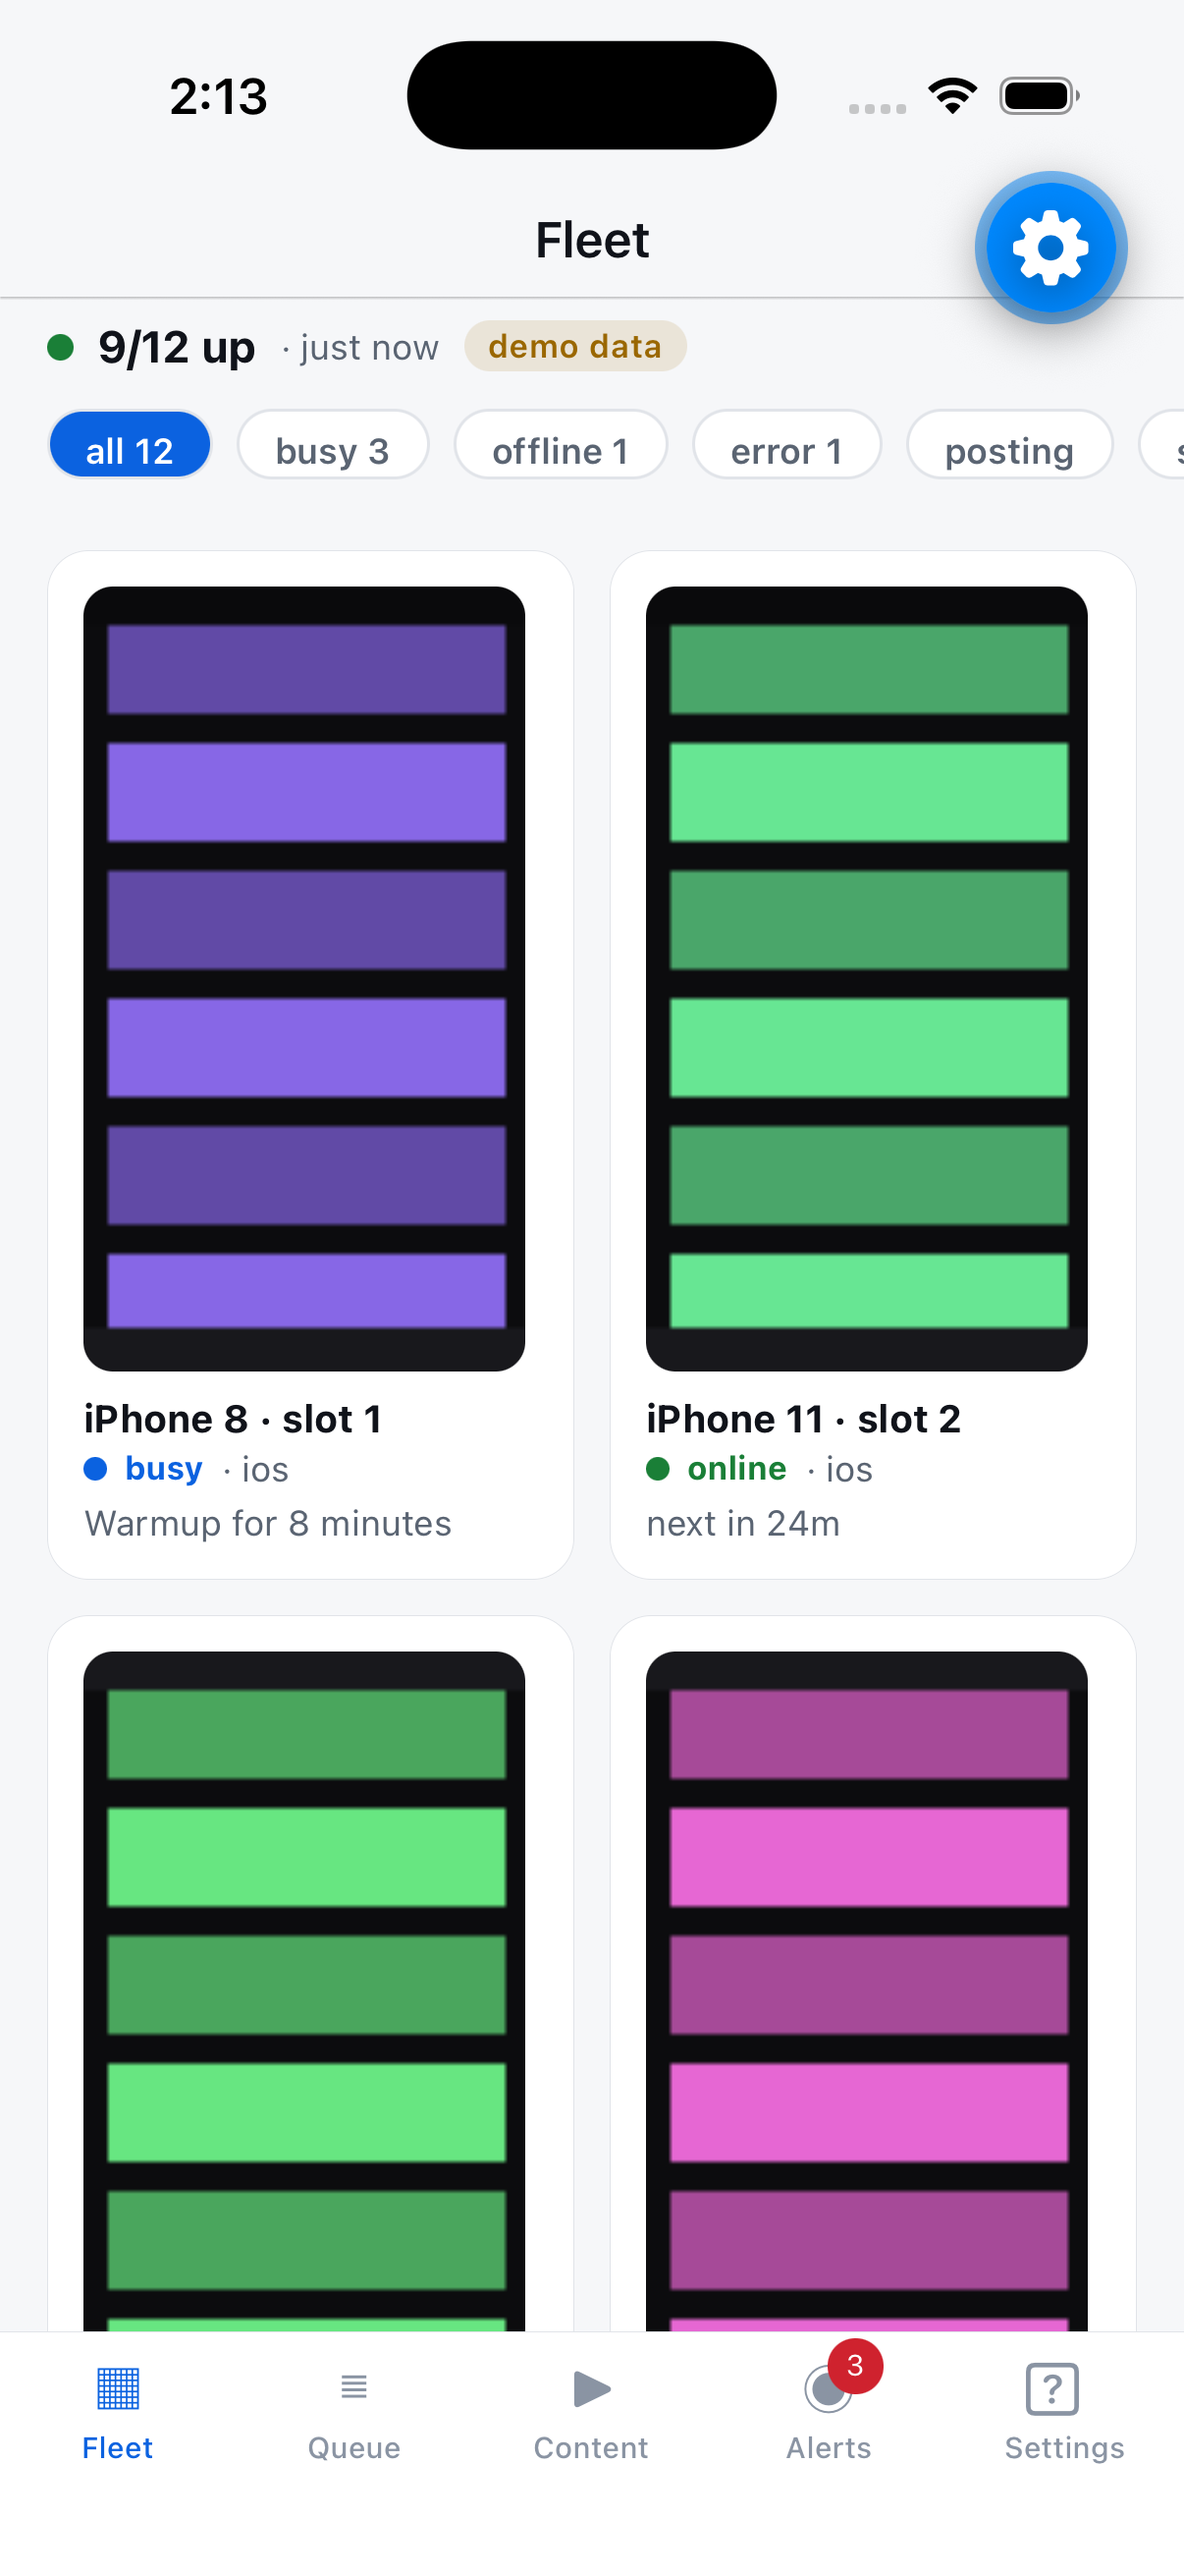
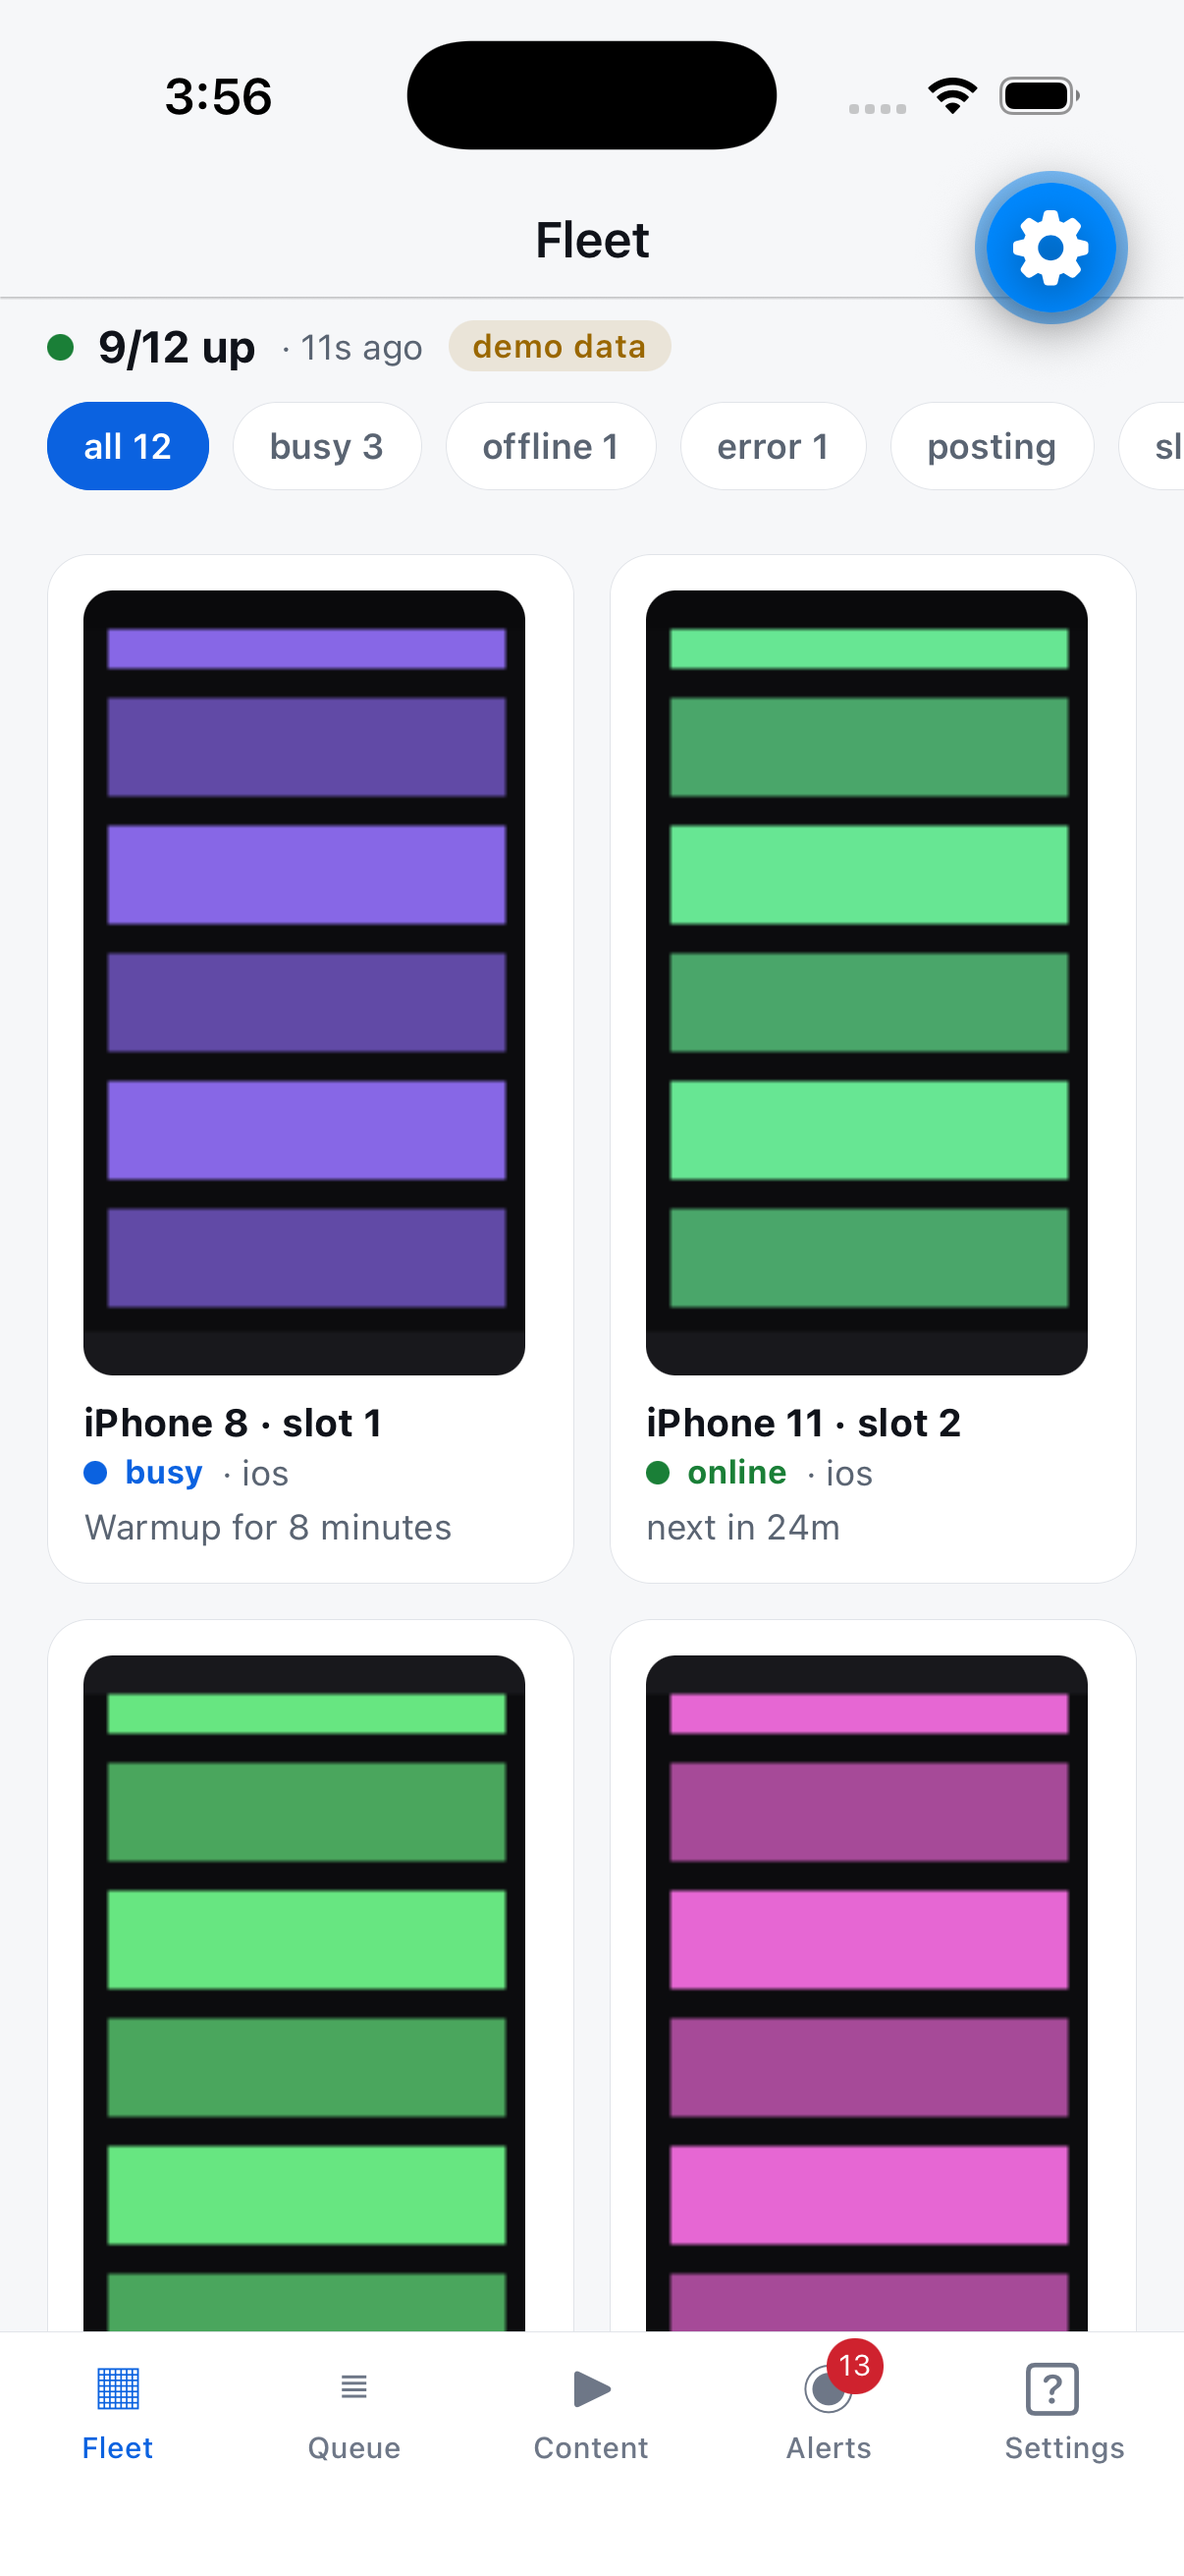
mobile: fix the clipped filter row, three failing contrast ratios and two copy bugs
Found by running the app in the simulator in demo mode, light and dark.

- The shared `Chip` clipped its own descenders: the horizontal
  `flexGrow: 0` row measured shorter than the pill. Fixed height, and
  the row centres its children.

- Three palette colours failed WCAG AA against the surface they sit on,
  all of them on 11 px text that is the only thing saying what happened:
  `disabled` at 1.9:1 light / 2.2:1 dark (the `cancelled` and
  `completed` badges were nearly invisible), and `textFaint` / `offline`
  at ~3.1:1 light / ~3.4:1 dark. All three now clear 4.5:1 on both the
  surface and the background, in both palettes.

- "No progress since its deadline in 59m" — a stuck run described its
  own deadline as being in the future. The interesting number is how
  far *past* it the run is, and a deadline that reads as future means
  the clocks disagree, so say the plain thing instead.

- A `device.disconnected` from ten minutes ago rendered "WDA is ready"
  underneath it: the mock built its `detail` from the device's state
  *now* rather than from the event. Keyed off the event kind.

Screenshots refreshed — all three had visible changes.

diff --git a/apps/mobile/src/theme/index.tsx b/apps/mobile/src/theme/index.tsx
@@ -1,6 +1,10 @@
 /**
  * Two palettes and a spacing scale. No UI kit: the app is eight screens of
  * lists and cards, and a design system would be more code than the screens.
+ *
+ * Every colour that carries text clears 4.5:1 against the surface it sits on.
+ * That matters more here than usual: the state words (`offline`, `cancelled`)
+ * are 11 px, and they are the only thing on the card that says what happened.
  */
 import { createContext, useContext, useMemo, type ReactNode } from 'react';
 import { useColorScheme } from 'react-native';
@@ -34,13 +38,16 @@ const dark: Palette = {
     border: '#282C34',
     text: '#F2F4F7',
     textMuted: '#9BA3AF',
-    textFaint: '#646C79',
+    // 4.8:1 on `surface`. The old #646C79 was 3.4:1 — a section heading and an
+    // inactive tab label are small text, not large.
+    textFaint: '#7B8494',
     accent: '#4C8DFF',
     accentText: '#FFFFFF',
     online: '#3FB950',
     busy: '#4C8DFF',
-    offline: '#646C79',
-    disabled: '#4A4F58',
+    offline: '#7B8494',
+    // 2.2:1 before. `cancelled` and `completed` badges were barely visible.
+    disabled: '#828B9B',
     error: '#F85149',
     warning: '#D29922',
     info: '#58A6FF',
@@ -55,13 +62,15 @@ const light: Palette = {
     border: '#E1E4E9',
     text: '#10131A',
     textMuted: '#5A6472',
-    textFaint: '#8A94A3',
+    // 4.5:1 on white; the old #8A94A3 was 3.1:1.
+    textFaint: '#6E7787',
     accent: '#0B62E0',
     accentText: '#FFFFFF',
     online: '#1A7F37',
     busy: '#0B62E0',
-    offline: '#8A94A3',
-    disabled: '#B4BAC4',
+    offline: '#6E7787',
+    // 1.9:1 before — the least legible colour in either palette.
+    disabled: '#666F7F',
     error: '#CF222E',
     warning: '#9A6700',
     info: '#0B62E0',

diff --git a/packages/farm-client/src/event-text.ts b/packages/farm-client/src/event-text.ts
@@ -110,10 +110,14 @@ function bodyFor(event: FarmEvent): string {
             return exitCode === undefined ? 'The run failed.' : `The run failed with exit ${exitCode}.`;
         }
         case 'execution.stuck': {
-            const deadline = stringOr(detail.deadlineAt);
-            return Number.isFinite(Date.parse(deadline))
-                ? `No progress since its deadline ${formatRelative(deadline)}.`
-                : 'The run has stopped making progress.';
+            // The farm only records this once the run is past its deadline, so
+            // the interesting number is how long *over* it is. A deadline that
+            // reads as being in the future means the clocks disagree; say the
+            // plain thing rather than "no progress since its deadline in 59m".
+            const overBy = Date.now() - Date.parse(stringOr(detail.deadlineAt));
+            return Number.isFinite(overBy) && overBy > 0
+                ? `Still running ${formatDuration(overBy)} past its deadline.`
+                : 'Still running past its deadline.';
         }
         case 'execution.stopped':
             return error || 'The run was stopped.';

diff --git a/packages/farm-client/src/mock/index.ts b/packages/farm-client/src/mock/index.ts
@@ -243,13 +243,15 @@ export function createMockFarm(options: MockFarmOptions = {}): MockFarm {
             };
         }
         if (kind.startsWith('device.')) {
-            const state = states.get(execution.deviceUdid) ?? 'online';
-            const base = mockConnectionForState(state);
+            // Keyed off the *event*, not the device's state now: a
+            // `device.disconnected` from ten minutes ago must not describe a
+            // phone that has since come back as "WDA is ready".
+            const base = mockConnectionForState(kind === 'device.connected' ? 'online' : kind === 'device.error' ? 'error' : 'offline');
             return {
                 physical: base.physical,
                 wda: base.wda,
                 message: base.message,
-                ...(kind === 'device.error' ? { error: 'The bridge stopped responding after 3 retries' } : {}),
+                ...(kind === 'device.error' ? { error: base.message } : {}),
             };
         }
         return { task, status: execution.status };

diff --git a/apps/mobile/src/components/index.tsx b/apps/mobile/src/components/index.tsx
@@ -228,7 +228,12 @@ export function Chip({
                 borderWidth: StyleSheet.hairlineWidth,
                 borderRadius: radius.pill,
                 paddingHorizontal: spacing.md,
-                paddingVertical: 6,
+                // A fixed height, so the horizontal `flexGrow: 0` row that holds
+                // these measures to something stable rather than clipping the
+                // descenders on the first layout pass.
+                height: 30,
+                alignItems: 'center',
+                justifyContent: 'center',
                 opacity: pressed ? 0.75 : 1,
             })}
         >

diff --git a/apps/mobile/src/screens/AlertsScreen.tsx b/apps/mobile/src/screens/AlertsScreen.tsx
@@ -78,7 +78,7 @@ export function AlertsScreen() {
                 horizontal
                 showsHorizontalScrollIndicator={false}
                 style={{ flexGrow: 0 }}
-                contentContainerStyle={{ paddingHorizontal: spacing.lg, gap: spacing.sm, paddingVertical: spacing.sm }}
+                contentContainerStyle={{ paddingHorizontal: spacing.lg, gap: spacing.sm, paddingVertical: spacing.sm, alignItems: 'center' }}
             >
                 {(['all', 'error', 'warning', 'info'] as const).map((option) => (
                     <Chip

diff --git a/apps/mobile/src/screens/FleetScreen.tsx b/apps/mobile/src/screens/FleetScreen.tsx
@@ -77,7 +77,7 @@ export function FleetScreen() {
             <ScrollView
                 horizontal
                 showsHorizontalScrollIndicator={false}
-                contentContainerStyle={{ paddingHorizontal: spacing.lg, gap: spacing.sm, paddingVertical: spacing.sm }}
+                contentContainerStyle={{ paddingHorizontal: spacing.lg, gap: spacing.sm, paddingVertical: spacing.sm, alignItems: 'center' }}
                 style={{ flexGrow: 0 }}
             >
                 {chips.map((chip) => (
